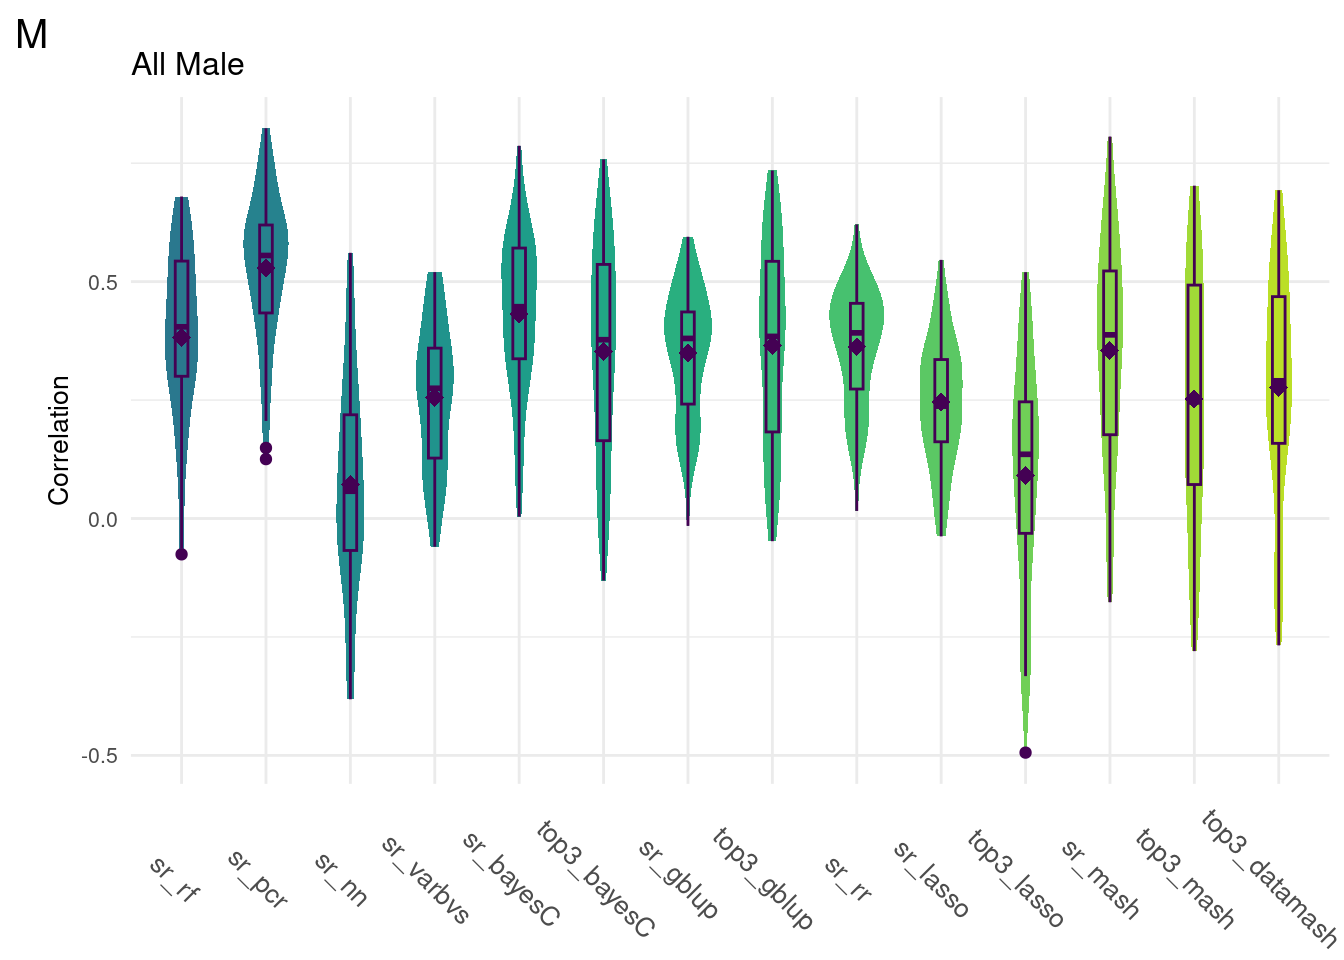
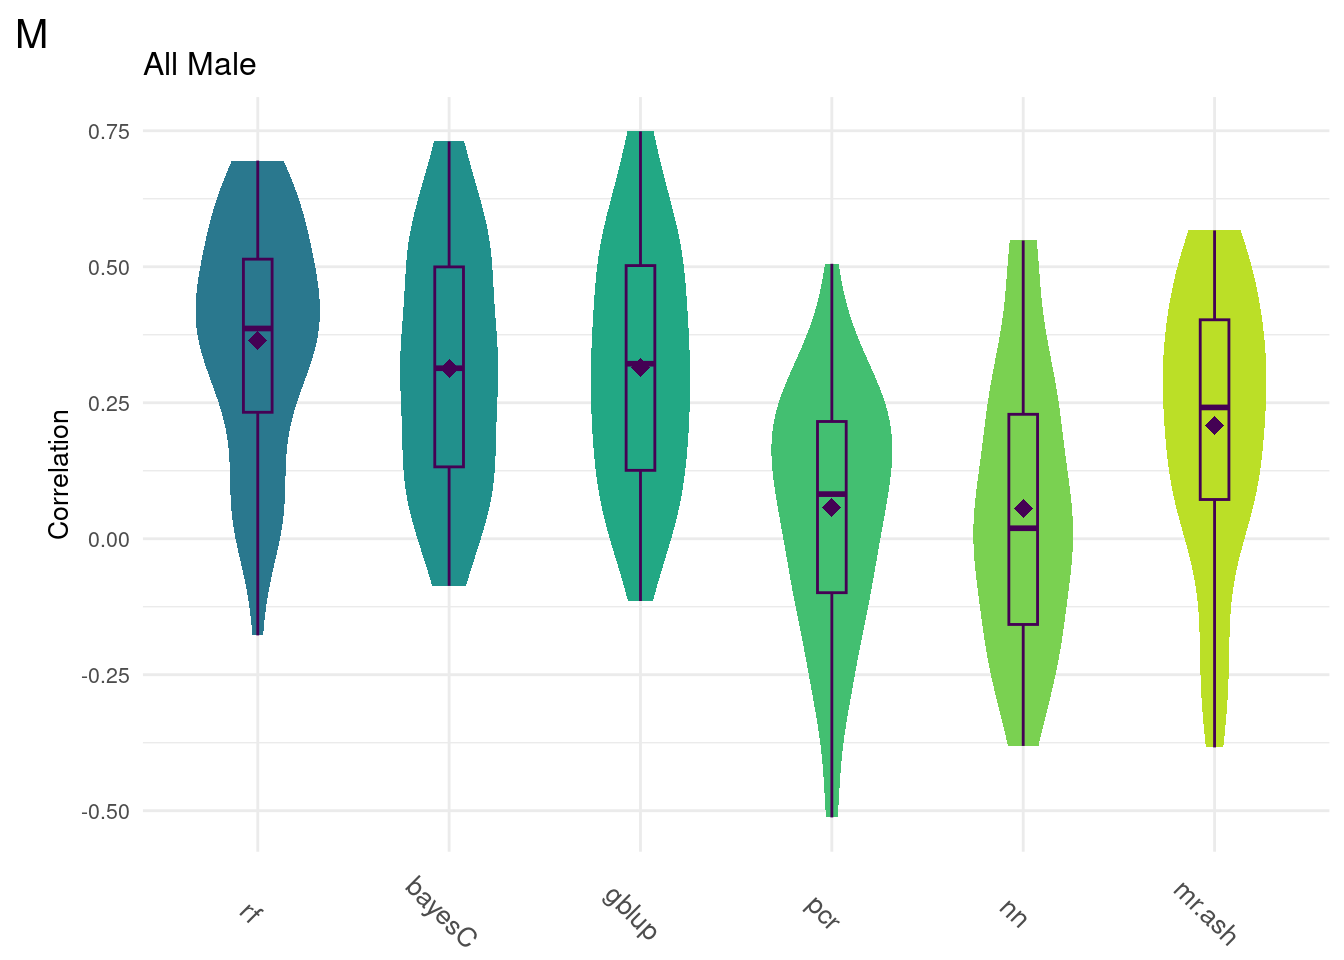
Build site.

diff --git a/docs/allHist.html b/docs/allHist.html
@@ -394,7 +394,7 @@ div.tocify {
 <div class="tab-content">
 <div id="summary" class="tab-pane fade in active">
 <p>
-<strong>Last updated:</strong> 2023-08-29
+<strong>Last updated:</strong> 2023-09-04
 </p>
 <p>
 <strong>Checks:</strong> <span class="glyphicon glyphicon-ok text-success" aria-hidden="true"></span> 6 <span class="glyphicon glyphicon-exclamation-sign text-danger" aria-hidden="true"></span> 1
@@ -509,16 +509,16 @@ relative
 <div class="panel panel-default">
 <div class="panel-heading">
 <p class="panel-title">
-<a data-toggle="collapse" data-parent="#workflowr-checks" href="#strongRepositoryversionstrongahrefhttpsgithubcomnklimkodgrpstarvetree741e81d106c330cf681f753bbabf1185aa129c39targetblank741e81da"> <span class="glyphicon glyphicon-ok text-success" aria-hidden="true"></span> <strong>Repository version:</strong> <a href="https://github.com/nklimko/dgrp-starve/tree/741e81d106c330cf681f753bbabf1185aa129c39" target="_blank">741e81d</a> </a>
+<a data-toggle="collapse" data-parent="#workflowr-checks" href="#strongRepositoryversionstrongahrefhttpsgithubcomnklimkodgrpstarvetree1606d88e6c802c82ae21ced332be356c814c5e28targetblank1606d88a"> <span class="glyphicon glyphicon-ok text-success" aria-hidden="true"></span> <strong>Repository version:</strong> <a href="https://github.com/nklimko/dgrp-starve/tree/1606d88e6c802c82ae21ced332be356c814c5e28" target="_blank">1606d88</a> </a>
 </p>
 </div>
[2 lines of base64/hex data omitted]
 <div class="panel-body">
 <p>
 Great! You are using Git for version control. Tracking code development and connecting the code version to the results is critical for reproducibility.
 </p>
 <p>
-The results in this page were generated with repository version <a href="https://github.com/nklimko/dgrp-starve/tree/741e81d106c330cf681f753bbabf1185aa129c39" target="_blank">741e81d</a>. See the <em>Past versions</em> tab to see a history of the changes made to the R Markdown and HTML files.
+The results in this page were generated with repository version <a href="https://github.com/nklimko/dgrp-starve/tree/1606d88e6c802c82ae21ced332be356c814c5e28" target="_blank">1606d88</a>. See the <em>Past versions</em> tab to see a history of the changes made to the R Markdown and HTML files.
 </p>
 <p>
 Note that you need to be careful to ensure that all relevant files for the analysis have been committed to Git prior to generating the results (you can use <code>wflow_publish</code> or <code>wflow_git_commit</code>). workflowr only checks the R Markdown file, but you know if there are other scripts or data files that it depends on. Below is the status of the Git repository when the results were generated:
@@ -533,6 +533,7 @@ Ignored files:
 Untracked files:
     Untracked:  .snakemake/
     Untracked:  Rplot.pdf
+    Untracked:  analysis/Method/
     Untracked:  analysis/linearReg.Rmd
     Untracked:  bglr-f.R
     Untracked:  cnn.R
@@ -577,6 +578,7 @@ Untracked files:
     Untracked:  data/multiReg.rData
     Untracked:  data/pheno_f
     Untracked:  data/pheno_m
+    Untracked:  data/pls_hist_data_f.Rds
     Untracked:  data/sr_hist_data_f.Rds
     Untracked:  data/sr_hist_data_m.Rds
     Untracked:  data/starve-f.txt
@@ -692,6 +694,40 @@ Message
 </tr>
 </thead>
 <tbody>
+<tr>
+<td>
+Rmd
+</td>
+<td>
+<a href="https://github.com/nklimko/dgrp-starve/blob/1606d88e6c802c82ae21ced332be356c814c5e28/analysis/allHist.Rmd" target="_blank">1606d88</a>
+</td>
+<td>
+nklimko
+</td>
+<td>
+2023-09-04
+</td>
+<td>
+wflow_publish(“analysis/allHist.Rmd”)
+</td>
+</tr>
+<tr>
+<td>
+html
+</td>
+<td>
+<a href="https://rawcdn.githack.com/nklimko/dgrp-starve/02ba6ed6a6eb26d74d7ad75facb5923ec69b08c0/docs/allHist.html" target="_blank">02ba6ed</a>
+</td>
+<td>
+nklimko
+</td>
+<td>
+2023-08-29
+</td>
+<td>
+Build site.
+</td>
+</tr>
 <tr>
 <td>
 Rmd
@@ -886,10 +922,23 @@ wflow_publish(“analysis/allHist.Rmd”)
 </div>
 </div>
 </div>
-<pre class="r"><code>game &lt;- 1
+<pre class="r"><code>#Correlation Coefficient Paths
+allF &lt;- &#39;snake/data/sr/40_all/f/cor/all.Rds&#39;
+allM &lt;- &#39;snake/data/sr/40_all/f/cor/all.Rds&#39;
 
+uniF &lt;- &#39;snake/data/sr/40_all/f/cor/uni.Rds&#39;
+uniM &lt;- &#39;snake/data/sr/40_all/f/cor/uni.Rds&#39;
+
+uniM &lt;- allM
+uniF &lt;- allF
+
+#Runtimes
+timeF &lt;- &#39;snake/data/sr/40_all/f/time/all.Rds&#39;
+timeM &lt;- &#39;snake/data/sr/40_all/f/time/all.Rds&#39;</code></pre>
+<pre class="r"><code>#reorders 50 X m table to a (50*m) X 2 table 
+#converts method into factor to retain order
 ggTidy &lt;- function(data){
-  
+
   for(i in 1:dim(data)[2]){
     
     name &lt;- colnames(data)[i]
@@ -902,34 +951,30 @@ ggTidy &lt;- function(data){
     }
   }
   colnames(hold) &lt;- c(&quot;method&quot;, &quot;cor&quot;)
+  hold$method &lt;- factor(hold$method, levels=unique(hold$method))
+  
   
   return(hold)
 }
 
-filt &lt;- function(data, method){
+#wrapper for ggplot call to custom fill sex, title, and y axis label
+ggMake &lt;- function(data, sex, custom.title, custom.Ylab){
   
-  if(method==&quot;sr&quot;){
-    col &lt;- 1
-    return(unlist(data[col, ]))
-  } else if(method==&quot;nested&quot;){
-    hold &lt;- vector(length=50)
-    for(i in 1:length(data)){
-      hold[i] &lt;- data[[i]]$cor 
-    }
-    return(hold)
-  } else if(method==&#39;top3&#39;){
-    col &lt;- 1
-    start &lt;- 1
-    skip &lt;- 16
-    
-    raw &lt;- unlist(data[col, ])
-    trim &lt;- raw[seq(start, length(raw), by=skip)]
-    
-    return(trim)
-  } else{
-    print(&#39;Method not recognized.&#39;)
-    return(NA)
-  }
+  plothole &lt;- ggplot(data, aes(x=method, y=cor, fill=method)) +
+    geom_violin(color = NA, width = 0.65) +
+    geom_boxplot(color=&#39;#440154FF&#39;, width = 0.15) +
+    theme_minimal() +
+    stat_summary(fun=mean, color=&#39;#440154FF&#39;, geom=&#39;point&#39;, 
+                 shape=18, size=3, show.legend=FALSE) +
+    labs(x=NULL,y=custom.Ylab, tag=sex, title=custom.title) +
+    theme(legend.position=&#39;none&#39;,
+          axis.text.x = element_text(angle = -45, size=10),
+          text=element_text(size=10),
+          plot.tag = element_text(size=15)) +
+    scale_fill_viridis(begin = 0.4, end=0.9,discrete=TRUE)
+  
+  return(plothole)
+  
 }</code></pre>
 <div id="intro-to-why" class="section level3">
 <h3>Intro to why</h3>
@@ -962,94 +1007,30 @@ filt &lt;- function(data, method){
 <p>Wtih traits that are correlated, we expect that changes in the trait of interest can be described by changes in additional trait values. We sought to incorporate this by taking the top three correlated traits into account in our multivariate models. The traits capillary feeding, free glycerol, and free glucose were selected for both males and females.</p>
 <p>In order to see if correlated traits could be used to improve model accuracy, we performed both univariate and multivariate analyses with models that permitted multiple response prediction.</p>
 <p>For every method tested, fifty replicates were created using an 80% train/20% test data split by DGRP2 line. Each column below is a distribution of the method’s correlation coefficient from all replicates.</p>
-<pre class="r"><code>allData &lt;- readRDS(&quot;data/all_hist_data_f.Rds&quot;)
-print(colMeans(allData))</code></pre>
-<pre><code>        sr_rf        sr_pcr         sr_nn     sr_varbvs     sr_bayesC 
-   0.36402243    0.45831216    0.05758642    0.41300077    0.31800121 
-  top3_bayesC      sr_gblup    top3_gblup         sr_rr      sr_lasso 
-   0.25436812    0.27998224    0.30159686    0.28108963    0.34736423 
-   top3_lasso       sr_mash     top3_mash top3_datamash 
-   0.18794887    0.20758722    0.09036488    0.13114167 </code></pre>
-<pre class="r"><code>data &lt;- ggTidy(allData)
-data$method &lt;- factor(data$method, levels=unique(data$method))
+<pre class="r"><code>#All
+allData &lt;- readRDS(allF)
+print(colMeans(na.omit(allData)))</code></pre>
+<pre><code>        rf     bayesC      gblup        pcr         nn     mr.ash 
+0.35128325 0.30140171 0.30374352 0.04416158 0.05540557 0.18472388 </code></pre>
+<pre class="r"><code>data &lt;- na.omit(ggTidy(allData))
+gg[[1]] &lt;- ggMake(data, &#39;F&#39;, &#39;All Female&#39;, &#39;Correlation&#39;)
 
-if(game){
-  gg[[1]] &lt;- ggplot(data, aes(x=method, y=cor, fill=method)) +
-    geom_violin(color = NA, width = 0.65) +
-    geom_boxplot(color=&#39;#440154FF&#39;, width = 0.15) +
-    theme_minimal() +
-    stat_summary(fun=mean, color=&#39;#440154FF&#39;, geom=&#39;point&#39;, 
-                 shape=18, size=3, show.legend=FALSE) +
-    labs(x=NULL,y=&#39;Correlation&#39;,tag=&#39;F&#39;, title=&#39;All Female&#39;) +
-    theme(legend.position=&#39;none&#39;,
-          axis.text.x = element_text(angle = -45, size=10),
-          text=element_text(size=10),
-          plot.tag = element_text(size=15)) +
-    scale_fill_viridis(begin = 0.4, end=0.9,discrete=TRUE)
-}
+#Univariate
+uniData &lt;- readRDS(uniF)
+data &lt;- na.omit(ggTidy(uniData))
+gg[[3]] &lt;- ggMake(data, &#39;F&#39;, &#39;Univariate Female&#39;, &#39;Correlation&#39;)</code></pre>
+<pre class="r"><code>#All
+allData &lt;- readRDS(allM)
+print(colMeans(na.omit(allData)))</code></pre>
+<pre><code>        rf     bayesC      gblup        pcr         nn     mr.ash 
+0.35128325 0.30140171 0.30374352 0.04416158 0.05540557 0.18472388 </code></pre>
+<pre class="r"><code>data &lt;- na.omit(ggTidy(allData))
+gg[[2]] &lt;- ggMake(data, &#39;M&#39;, &#39;All Male&#39;, &#39;Correlation&#39;)
 
-srData &lt;- readRDS(&quot;data/sr_hist_data_f.Rds&quot;)
-data &lt;- ggTidy(srData)
-data$method &lt;- factor(data$method, levels=unique(data$method))
-
-if(game){
-  gg[[3]] &lt;- ggplot(data, aes(x=method, y=cor, fill=method)) +
-    geom_violin(color = NA, width = 0.65) +
-    geom_boxplot(color=&#39;#440154FF&#39;, width = 0.15) +
-    theme_minimal() +
-    stat_summary(fun=mean, color=&#39;#440154FF&#39;, geom=&#39;point&#39;, 
-                 shape=18, size=3, show.legend=FALSE) +
-    labs(x=NULL,y=&#39;Correlation&#39;,tag=&#39;F&#39;, title=&#39;Univariate Female&#39;) +
-    theme(legend.position=&#39;none&#39;,
-          axis.text.x = element_text(angle = -45, size=10),
-          text=element_text(size=10),
-          plot.tag = element_text(size=15)) +
-    scale_fill_viridis(begin = 0.4, end=0.9,discrete=TRUE)
-}</code></pre>
-<pre class="r"><code>allData &lt;- readRDS(&quot;data/all_hist_data_m.Rds&quot;)
-print(colMeans(allData))</code></pre>
-<pre><code>        sr_rf        sr_pcr         sr_nn     sr_varbvs     sr_bayesC 
-   0.38175574    0.52833378    0.07124629    0.25543960    0.43129890 
-  top3_bayesC      sr_gblup    top3_gblup         sr_rr      sr_lasso 
-   0.35203327    0.34913991    0.36524616    0.36257400    0.24606199 
-   top3_lasso       sr_mash     top3_mash top3_datamash 
-   0.09079562    0.35469100    0.25221799    0.27634139 </code></pre>
-<pre class="r"><code>data &lt;- ggTidy(allData)
-data$method &lt;- factor(data$method, levels=unique(data$method))
-
-if(game){
-  gg[[2]] &lt;- ggplot(data, aes(x=method, y=cor, fill=method)) +
-    geom_violin(color = NA, width = 0.65) +
-    geom_boxplot(color=&#39;#440154FF&#39;, width = 0.15) +
-    theme_minimal() +
-    stat_summary(fun=mean, color=&#39;#440154FF&#39;, geom=&#39;point&#39;, 
-                 shape=18, size=3, show.legend=FALSE) +
-    labs(x=NULL,y=&#39;Correlation&#39;,tag=&#39;M&#39;, title=&#39;All Male&#39;) +
-    theme(legend.position=&#39;none&#39;,
-          axis.text.x = element_text(angle = -45, size=10),
-          text=element_text(size=10),
-          plot.tag = element_text(size=15)) +
-    scale_fill_viridis(begin = 0.4, end=0.9,discrete=TRUE)
-}
-
-srData &lt;- readRDS(&quot;data/sr_hist_data_m.Rds&quot;)
-data &lt;- ggTidy(srData)
-data$method &lt;- factor(data$method, levels=unique(data$method))
-
-if(game){
-  gg[[4]] &lt;- ggplot(data, aes(x=method, y=cor, fill=method)) +
-    geom_violin(color = NA, width = 0.65) +
-    geom_boxplot(color=&#39;#440154FF&#39;, width = 0.15) +
-    theme_minimal() +
-    stat_summary(fun=mean, color=&#39;#440154FF&#39;, geom=&#39;point&#39;, 
-                 shape=18, size=3, show.legend=FALSE) +
-    labs(x=NULL,y=&#39;Correlation&#39;,tag=&#39;M&#39;, title=&#39;Univariate Male&#39;) +
-    theme(legend.position=&#39;none&#39;,
-          axis.text.x = element_text(angle = -45, size=10),
-          text=element_text(size=10),
-          plot.tag = element_text(size=15)) +
-    scale_fill_viridis(begin = 0.4, end=0.9,discrete=TRUE)
-}</code></pre>
+#Univariate
+uniData &lt;- readRDS(uniM)
+data &lt;- na.omit(ggTidy(uniData))
+gg[[4]] &lt;- ggMake(data, &#39;M&#39;, &#39;Univariate Male&#39;, &#39;Correlation&#39;)</code></pre>
 </div>
 <div id="univariate-models" class="section level3">
 <h3>Univariate Models</h3>
@@ -1077,6 +1058,17 @@ Date
 </tr>
 </thead>
 <tbody>
+<tr>
+<td>
+<a href="https://github.com/nklimko/dgrp-starve/blob/02ba6ed6a6eb26d74d7ad75facb5923ec69b08c0/docs/figure/allHist.Rmd/plot-print-all-1.png" target="_blank">02ba6ed</a>
+</td>
+<td>
+nklimko
+</td>
+<td>
+2023-08-29
+</td>
+</tr>
 <tr>
 <td>
 <a href="https://github.com/nklimko/dgrp-starve/blob/2657f5c6dc6c600a1bde7dbcd1643f43281115ce/docs/figure/allHist.Rmd/plot-print-all-1.png" target="_blank">2657f5c</a>
@@ -1127,6 +1119,17 @@ Date
 </tr>
 </thead>
 <tbody>
+<tr>
+<td>
+<a href="https://github.com/nklimko/dgrp-starve/blob/02ba6ed6a6eb26d74d7ad75facb5923ec69b08c0/docs/figure/allHist.Rmd/plot-print-all-2.png" target="_blank">02ba6ed</a>
+</td>
+<td>
+nklimko
+</td>
+<td>
+2023-08-29
+</td>
+</tr>
 <tr>
 <td>
 <a href="https://github.com/nklimko/dgrp-starve/blob/2657f5c6dc6c600a1bde7dbcd1643f43281115ce/docs/figure/allHist.Rmd/plot-print-all-2.png" target="_blank">2657f5c</a>
@@ -1181,6 +1184,17 @@ Date
 <tbody>
 <tr>
 <td>
+<a href="https://github.com/nklimko/dgrp-starve/blob/02ba6ed6a6eb26d74d7ad75facb5923ec69b08c0/docs/figure/allHist.Rmd/plot-print-univariate-1.png" target="_blank">02ba6ed</a>
+</td>
+<td>
+nklimko
+</td>
+<td>
+2023-08-29
+</td>
+</tr>
+<tr>
+<td>
 <a href="https://github.com/nklimko/dgrp-starve/blob/2657f5c6dc6c600a1bde7dbcd1643f43281115ce/docs/figure/allHist.Rmd/plot-print-univariate-1.png" target="_blank">2657f5c</a>
 </td>
 <td>
@@ -1229,6 +1243,17 @@ Date
 </tr>
 </thead>
 <tbody>
+<tr>
+<td>
+<a href="https://github.com/nklimko/dgrp-starve/blob/02ba6ed6a6eb26d74d7ad75facb5923ec69b08c0/docs/figure/allHist.Rmd/plot-print-univariate-2.png" target="_blank">02ba6ed</a>
+</td>
+<td>
+nklimko
+</td>
+<td>
+2023-08-29
+</td>
+</tr>
 <tr>
 <td>
 <a href="https://github.com/nklimko/dgrp-starve/blob/2657f5c6dc6c600a1bde7dbcd1643f43281115ce/docs/figure/allHist.Rmd/plot-print-univariate-2.png" target="_blank">2657f5c</a>
